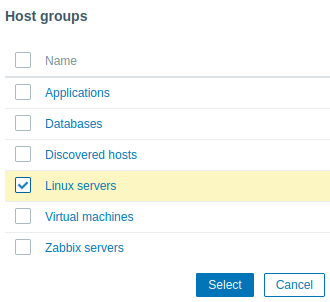
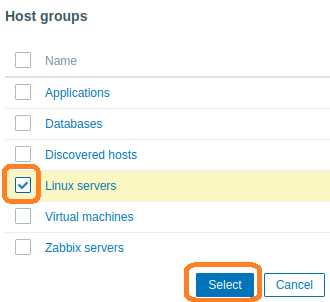
monitoring updated 2

Changed region(s): [[0.5455, 0.8642, 0.8182, 1.0], [0.0, 0.5364, 0.1212, 0.6854]]

diff --git a/ZabbixPractical2/step4/text.md b/ZabbixPractical2/step4/text.md
@@ -10,14 +10,16 @@ Access to all menu sections will be granted.
 > Media type information contains general instructions for using a medium as delivery channel for notifications.
   Specific details, such as the individual e-mail addresses to send a notification to are kept with individual users.
 
-* In the "Alerts"/"Media types" section you can configure and maintain media type information.
+> In the "Alerts"/"Media types" section you can configure and maintain media type information.
   A listing of existing media types with their details is displayed.
+
+* Double-click at the word "Disable", for example, in the email line
 
 ![Picture 402](./alertsMediaTypes.png)
 
-* You can configure and enable "media type" click on the "media type" link.
+> You can configure and enable "media type" click on the "media type" link.
 
-> To configure a new media type, click on the Create media type button in the top right-hand corner.
+* If you want to configure a new media type, click on the Create media type button in the top right-hand corner (not now).
 
 ![Picture 403](./createMediaType.png)
 
@@ -39,6 +41,10 @@ Access to all menu sections will be granted.
 
 ![Picture 407](./createUserForm.png)
 
+* To add a group, click on "Select"
+
+![Picture 407a](./selectGroup.png)
+
 * In the new user form, make sure to add your user to one of the existing user groups, for example 'Zabbix administrators'.
 
 ![Picture 408](./zabbixAdministrators.png)
@@ -56,9 +62,11 @@ Access to all menu sections will be granted.
 > You can specify a time period when the medium will be active, by default a medium is always active.
   You can also customize trigger severity levels for which the medium will be active.
 
-* Click on Add to save the medium, then go to the Permissions tab.
+* Click on "Add" button to save the medium.
 
 ![Picture 411](./mediaEmail.png)
+
+* And then go to the Permissions tab.
 
 ![Picture 412](./userPermissions.png)
 
@@ -83,18 +91,30 @@ Access to all menu sections will be granted.
 
 ![Picture 416](./createUserFinish.png)
 
+
 * By default, a new user has no permissions to access hosts and templates.
   To grant the user to rights, click on the group of the user in the Groups column (for example, 'Zabbix administrators').
-  In the group properties form, go to the Host permissions tab to assign permissions to host groups.
+
+![Picture 416a](./groupsColumn.png)
+
+
+* In the group properties form, go to the Host permissions tab to assign permissions to host groups.
 
 ![Picture 417](./hostPermissions.png)
 
-> For example, mark the checkbox next to 'Linux servers', then click Select.
+* Click the "Select" button to open the "Host Templates" window
+
+![Picture 417a](./hostTemplates.png)
+
+
+* Please check the box next to "Linux Servers" and then click "Select" button.
+
+![Picture 418](./hostGroup.png)
 
 * Click the 'Read' button to set the permission level and then Add to add the group to the list of permissions.
   In the user group properties form, click Update.
 
-![Picture 418](./hostGroup.png)
+![Picture 418a](./updatePermissions.png)
 
 
 * Sign out of the administrator account

diff --git a/ZabbixPractical2/step2/text.md b/ZabbixPractical2/step2/text.md
@@ -62,7 +62,7 @@ Click "**Esc**", "**:**" and "**wq**" to save and exit
 sudo vi /etc/zabbix/nginx.conf
 ```{{exec}}
 
-Uncomment and set 'listen' and 'server_name' directives.
+Uncomment and set 'listen' and 'server_name' directives. Press "**i**" to edit the file
 ```
 listen 8080;
 server_name example.com;
@@ -91,9 +91,7 @@ For this example, leave the value at 127.0.0.1
 
 ![Picture 24b](./serverActive.png)
 
-Save and close the file.
-
-Click "**Esc**", "**:**" and "**wq**" to save and exit
+Do not modify the contents of the file. Click "**Esc**", "**:**" and "**q!**" to exit.
 
 * The agent will listen on port 10050 to connect to the server. Setup a UFW to allow connections to this port
 ```
@@ -122,7 +120,9 @@ sudo systemctl restart nginx
 sudo systemctl status zabbix-agent
 ```{{exec}}
 
-> The agent is ready to send data to the Zabbix server. But to use it, you need to connect to it from the server's web console.
+![Picture 24c](./agentActive.png)
+
+> The agent is ready to send data to the Zabbix server. To use it, you must connect to it from the server's web console.
 
 
 * Open Zabbix UI web page

diff --git a/ZabbixPractical2/intro/text.md b/ZabbixPractical2/intro/text.md
@@ -5,11 +5,13 @@ The goal of this assignment is to set up the Zabbix server.
 >Task
 1. Installation of the MySQL database.
 2. Configuring the MySQL database for Zabbix.
-3. Installing the Zabbix server.
+3. Installing the Zabbix server and agent.
 4. Start using Zabbix.
 5. Configuring Users.
 6. Sign in as a new user.
-7. Save the result of your work in the tracking system.
+7. Adding a new host to the Zabbix server
+8. Monitoring free space on the disk.
+9. Save the result of your work in the tracking system.
 
 Zabbix is an enterprise-class open source distributed monitoring solution.
 

diff --git a/ZabbixPractical2/step7/text.md b/ZabbixPractical2/step7/text.md
@@ -1,4 +1,4 @@
-# Creating a test notification
+# Monitoring free space
 
 
 > Zabbix can monitor the amount of free disk space. Create a temporary file so that it is large enough to trigger a file system usage message

diff --git a/ZabbixPractical2/step3/text.md b/ZabbixPractical2/step3/text.md
@@ -35,5 +35,4 @@
 
 ![Picture 37](./loginPage.png)
 
-
 <br/>
